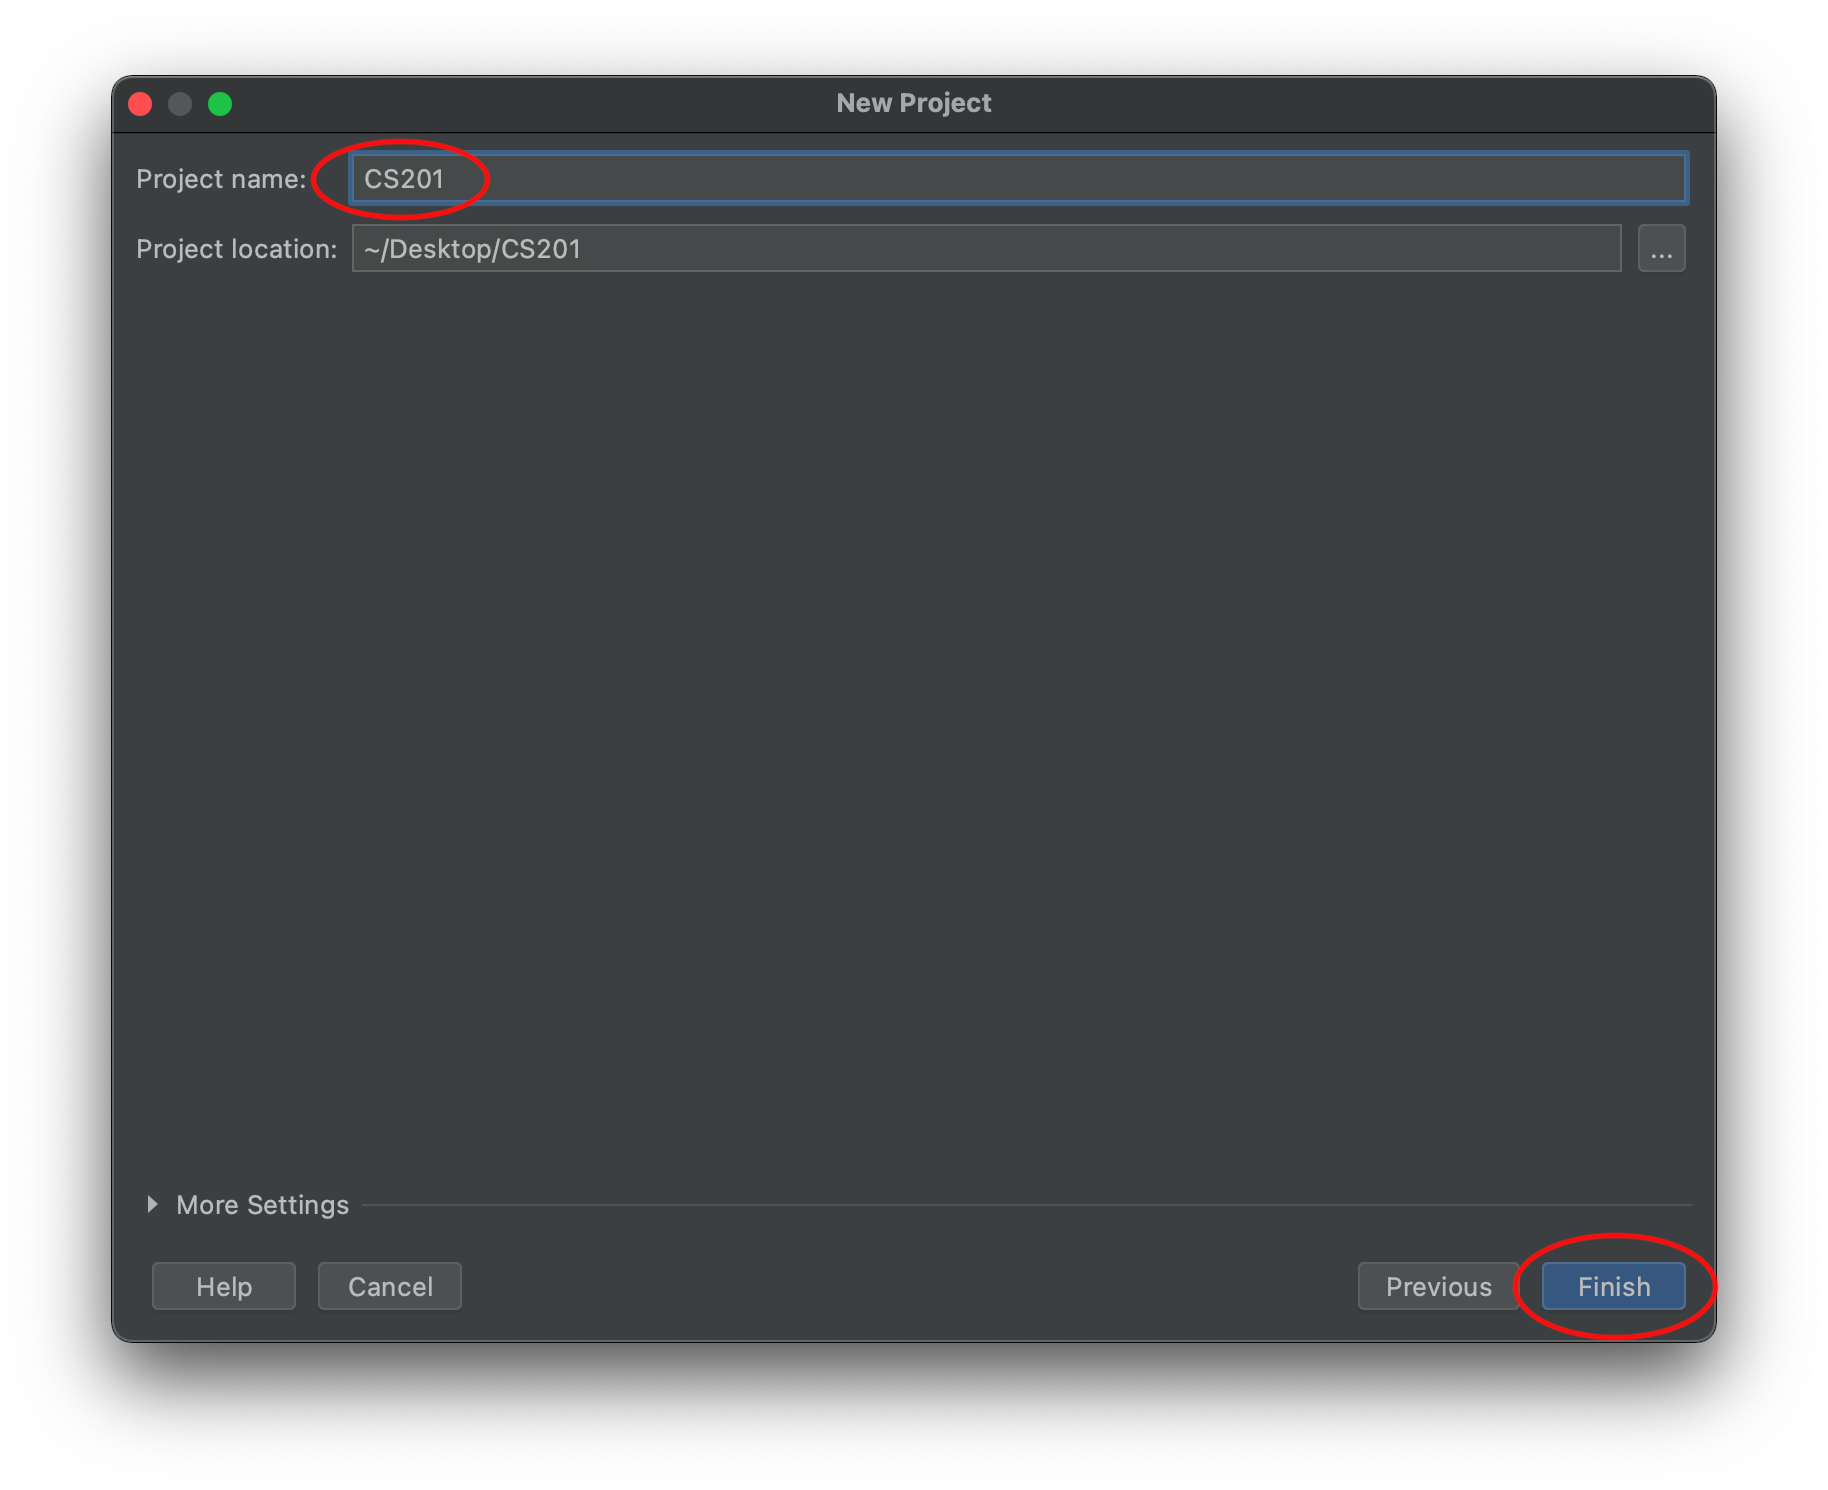
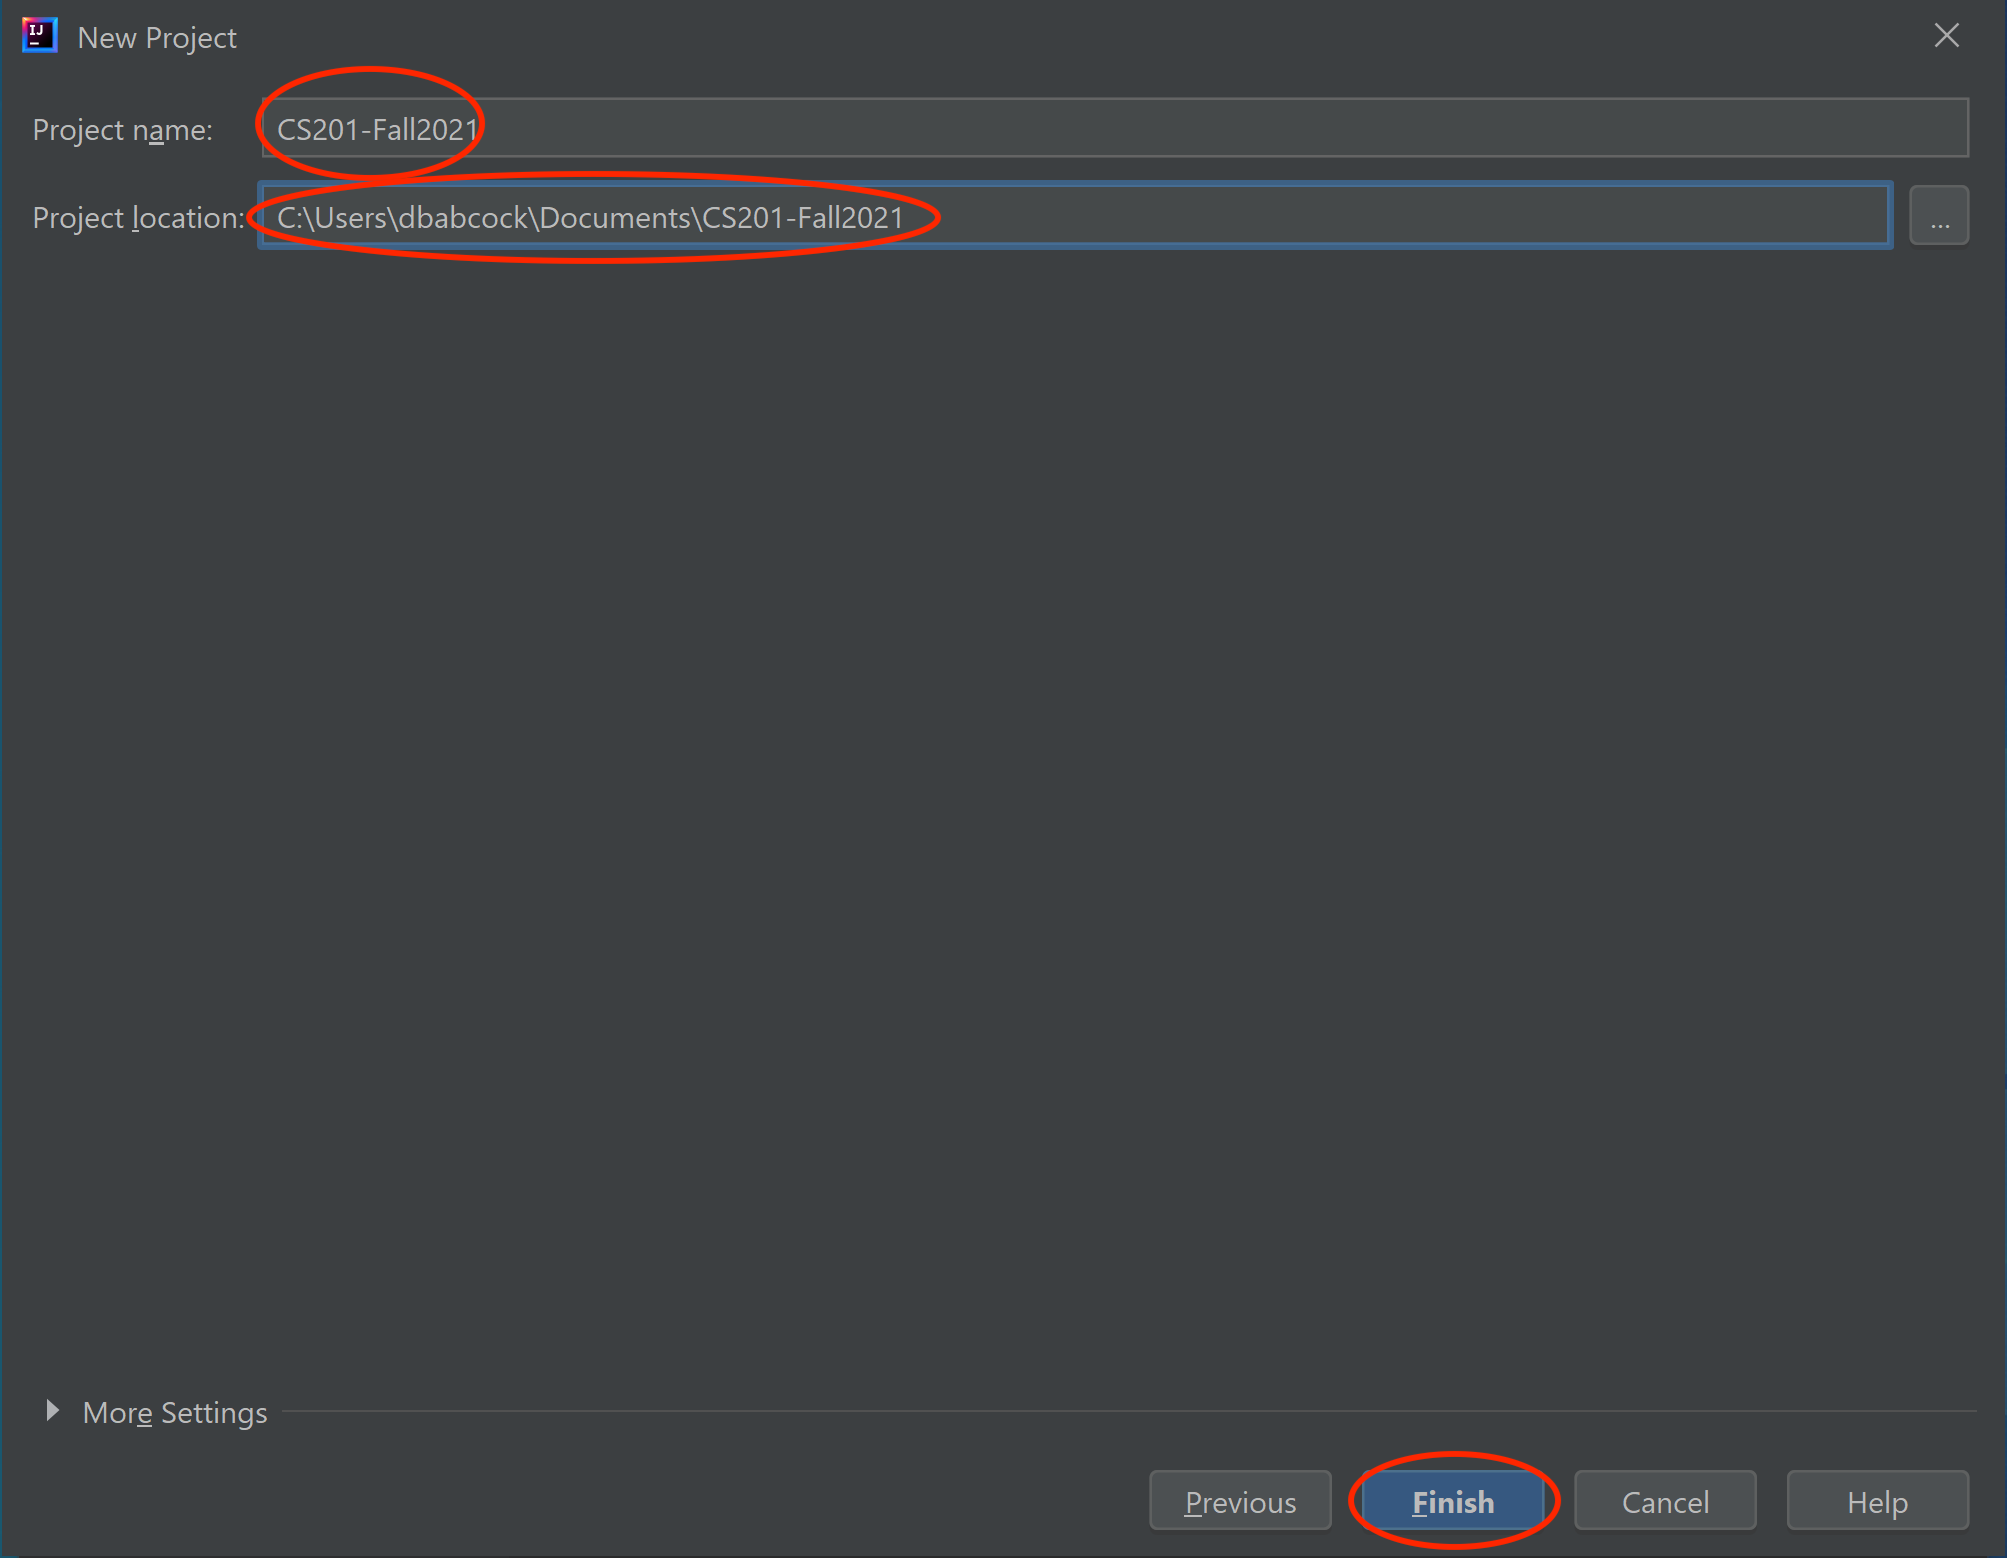
update directory
update directory

Changed region(s): [[0.0, 0.0, 1.0, 1.0], [0.0935, 0.8027, 0.1871, 0.8644]]

diff --git a/resources/index.md b/resources/index.md
@@ -22,7 +22,7 @@ Select **New Project** which will open the new project dialog
 
 > <img src="images/IntelliJNewProject.png" alt="IntelliJ New Project Window" height="500"/>
 
-Select **Empty Project** from the list on the left and click **Next**. Change the **Project name:** to **CS201** and select the **Project location:** to be the location where you want to keep all your CS201 projects, e.g. **C:/Documents** or **~/Documents/CS201**, and click **Finish**.
+Select **Empty Project** from the list on the left and click **Next**. Change the **Project name:** to **CS201-Fall2021** and select the **Project location:** to be the location where you want to keep all your CS201 projects, e.g. **C:/Documents** or **~/Documents/CS201**, and click **Finish**.
 
 > <img src="images/IntelliJDirectory.png" alt="IntelliJ Directory Window" height="500"/>
 
@@ -36,11 +36,11 @@ All labs, assignments, and exams will be submitted to the [Marmoset submission s
 
 We will be using [Cygwin](http://cygwin.com/) as our terminal program. 
 
-Make sure you have first installed IntelliJ and set up your CS201 project as described above. If you already installed Cygwin for CS101, skip to step 2.
+Make sure you have first installed IntelliJ and set up your CS201-Fall2021 project as described above. If you already installed Cygwin for CS101, skip to step 2.
 
 1. Install [Cygwin](http://cygwin.com/) and the various packages as described in the [CS101 Cygwin installation guide](https://ycpcs.github.io/cs101-spring2021/installCygwin.html).
 
-2. Open IntelliJ and the CS201 project, then select **File -> Settings** from the menubar.
+2. Open IntelliJ and the CS201-Fall2021 project, then select **File -> Settings** from the menubar.
 
     <img src="images/IntelliJSettings.png" alt="IntelliJ Select Settings Window" height="400"/>
 
@@ -48,7 +48,7 @@ Make sure you have first installed IntelliJ and set up your CS201 project as des
 
     <img src="images/IntelliJTerminal.png" alt="IntelliJ Tools Settings Window" height="500"/>
 
-4. If everything is configured correctly, when you select the **Terminal** tab in the lower left corner of IntelliJ, it should open up a terminal pane that displays a Cygwin prompt in the **CS201** project directory.
+4. If everything is configured correctly, when you select the **Terminal** tab in the lower left corner of IntelliJ, it should open up a terminal pane that displays a Cygwin prompt in the **CS201-Fall2021** project directory.
 
     <img src="images/IntelliJCygwin.png" alt="IntelliJ Cygwin Window" height="400"/>
 

diff --git a/assign/assign01.md b/assign/assign01.md
@@ -11,7 +11,7 @@ Acknowledgment: The idea for this assignment comes from [Tom Ellman](http://page
 
 ## Getting Started
 
-Download [CS201\_Assign01\_Gradle.zip](CS201_Assign01_Gradle.zip). Copy and extract the zip file into your **CS201** directory. Import it into your **CS201** IntelliJ project using
+Download [CS201\_Assign01\_Gradle.zip](CS201_Assign01_Gradle.zip). Copy and extract the zip file into your **CS201-Fall2021** directory. Import it into your **CS201-Fall2021** IntelliJ project using
 
 > **File&rarr;New&rarr;Module from Existing Sources...**
 
@@ -263,7 +263,7 @@ When you are done, submit the lab to the Marmoset server using the Terminal wind
 Navigate to the directory using
 
 <pre>
-CS201 % <b>cd CS201_Assign01_Gradle</b>
+CS201-Fall2021 % <b>cd CS201_Assign01_Gradle</b>
 CS201_Assign01_Gradle % <b>make submit_ms1</b>
 </pre>
 
@@ -290,7 +290,7 @@ Details:
 Navigate to the directory using
 
 <pre>
-CS201 % <b>cd CS201_Assign01_Gradle</b>
+CS201-Fall2021 % <b>cd CS201_Assign01_Gradle</b>
 CS201_Assign01_Gradle % <b>make submit_ms2</b>
 </pre>
 

diff --git a/labs/lab11.md b/labs/lab11.md
@@ -5,7 +5,7 @@ title: "Lab 11: Using Generic Containers and Algorithms"
 
 ## Getting Started
 
-Download [CS201\_Lab11\_Gradle.zip](CS201_Lab11_Gradle.zip). Copy and extract the zip file into your **CS201** directory. Import it into your **CS201** IntelliJ project using
+Download [CS201\_Lab11\_Gradle.zip](CS201_Lab11_Gradle.zip). Copy and extract the zip file into your **CS201-Fall2021** directory. Import it into your **CS201-Fall2021** IntelliJ project using
 
 > **File&rarr;New&rarr;Module from Existing Sources...**
 
@@ -107,7 +107,7 @@ You can implement the **Deck** class's **shuffle** method by calling **Collectio
 When you are done, submit the lab to the Marmoset server using the Terminal window in IntelliJ (click **Terminal** at the bottom left of the IDE). Navigate to the directory using
 
 <pre>
-CS201 % <b>cd CS201_Lab11_Gradle</b>
+CS201-Fall2021 % <b>cd CS201_Lab11_Gradle</b>
 CS201_Lab11_Gradle % <b>make submit</b>
 </pre>
 

diff --git a/labs/lab02.md b/labs/lab02.md
@@ -7,7 +7,7 @@ For this lab you will implement a class that represents a pocketful of change.
 
 ## Getting Started
 
-Download [CS201\_Lab02\_Gradle.zip](CS201_Lab02_Gradle.zip). Copy and extract the zip file into your **CS201** directory. Import it into your **CS201** IntelliJ project using
+Download [CS201\_Lab02\_Gradle.zip](CS201_Lab02_Gradle.zip). Copy and extract the zip file into your **CS201-Fall2021** directory. Import it into your **CS201-Fall2021** IntelliJ project using
 
 > **File&rarr;New&rarr;Module from Existing Sources...**
 
@@ -48,7 +48,7 @@ The class should provide the following **public** methods:
 When you are done, submit the lab to the Marmoset server using the Terminal window in IntelliJ (click **Terminal** at the bottom left of the IDE). Navigate to the directory using
 
 <pre>
-CS201 % <b>cd CS201_Lab02_Gradle</b>
+CS201-Fall2021 % <b>cd CS201_Lab02_Gradle</b>
 CS201_Lab02_Gradle % <b>make submit</b>
 </pre>
 

diff --git a/labs/lab08.md b/labs/lab08.md
@@ -5,7 +5,7 @@ title: "Lab 8: Inheritance and Polymorphism"
 
 ## Getting Started
 
-Download [CS201\_Lab08\_Gradle.zip](CS201_Lab08_Gradle.zip). Copy and extract the zip file into your **CS201** directory. Import it into your **CS201** IntelliJ project using
+Download [CS201\_Lab08\_Gradle.zip](CS201_Lab08_Gradle.zip). Copy and extract the zip file into your **CS201-Fall2021** directory. Import it into your **CS201-Fall2021** IntelliJ project using
 
 > **File&rarr;New&rarr;Module from Existing Sources...**
 
@@ -40,7 +40,7 @@ In **src/test/java/(default package)** right-click on the appropriate test class
 When you are done, submit the lab to the Marmoset server using the Terminal window in IntelliJ (click **Terminal** at the bottom left of the IDE). Navigate to the directory using
 
 <pre>
-CS201 % <b>cd CS201_Lab08_Gradle</b>
+CS201-Fall2021 % <b>cd CS201_Lab08_Gradle</b>
 CS201_Lab08_Gradle % <b>make submit</b>
 </pre>
 

diff --git a/labs/lab15.md b/labs/lab15.md
@@ -5,7 +5,7 @@ title: "Lab 15: Iterators, Interleaving"
 
 ## Getting Started
 
-Download [CS201\_Lab15\_Gradle.zip](CS201_Lab15_Gradle.zip). Copy and extract the zip file into your **CS201** directory. Import it into your **CS201** IntelliJ project using
+Download [CS201\_Lab15\_Gradle.zip](CS201_Lab15_Gradle.zip). Copy and extract the zip file into your **CS201-Fall2021** directory. Import it into your **CS201-Fall2021** IntelliJ project using
 
 > **File&rarr;New&rarr;Module from Existing Sources...**
 
@@ -35,7 +35,7 @@ The **AlgorithmTest** JUnit test class has unit tests for each method. Take a lo
 When you are done, submit the lab to the Marmoset server using the Terminal window in IntelliJ (click **Terminal** at the bottom left of the IDE). Navigate to the directory using
 
 <pre>
-CS201 % <b>cd CS201_Lab15_Gradle</b>
+CS201-Fall2021 % <b>cd CS201_Lab15_Gradle</b>
 CS201_Lab15_Gradle % <b>make submit</b>
 </pre>
 

diff --git a/labs/lab13.md b/labs/lab13.md
@@ -5,7 +5,7 @@ title: "Lab 13: Benchmarking ArrayList"
 
 ## Getting Started
 
-Download [CS201\_Lab13\_Gradle.zip](CS201_Lab13_Gradle.zip). Copy and extract the zip file into your **CS201** directory. Import it into your **CS201** IntelliJ project using
+Download [CS201\_Lab13\_Gradle.zip](CS201_Lab13_Gradle.zip). Copy and extract the zip file into your **CS201-Fall2021** directory. Import it into your **CS201-Fall2021** IntelliJ project using
 
 > **File&rarr;New&rarr;Module from Existing Sources...**
 
@@ -99,7 +99,7 @@ Copy your Excel file into the Eclipse project. (Put it in the subdirectory of yo
 When you are done, submit the lab to the Marmoset server using the Terminal window in IntelliJ (click **Terminal** at the bottom left of the IDE). Navigate to the directory using
 
 <pre>
-CS201 % <b>cd CS201_Lab13_Gradle</b>
+CS201-Fall2021 % <b>cd CS201_Lab13_Gradle</b>
 CS201_Lab13_Gradle % <b>make submit</b>
 </pre>
 

diff --git a/labs/lab23.md b/labs/lab23.md
@@ -5,7 +5,7 @@ title: "Lab 23: Binomial Coefficient"
 
 ## Getting Started
 
-Download [CS201\_Lab23\_Gradle.zip](CS201_Lab23_Gradle.zip). Copy and extract the zip file into your **CS201** directory. Import it into your **CS201** IntelliJ project using
+Download [CS201\_Lab23\_Gradle.zip](CS201_Lab23_Gradle.zip). Copy and extract the zip file into your **CS201-Fall2021** directory. Import it into your **CS201-Fall2021** IntelliJ project using
 
 > **File&rarr;New&rarr;Module from Existing Sources...**
 
@@ -44,7 +44,7 @@ The test driver solves C(n,k) for all values of k 0..n, for n=25, and measures t
 When you are done, submit the lab to the Marmoset server using the Terminal window in IntelliJ (click **Terminal** at the bottom left of the IDE). Navigate to the directory using
 
 <pre>
-CS201 % <b>cd CS201_Lab23_Gradle</b>
+CS201-Fall2021 % <b>cd CS201_Lab23_Gradle</b>
 CS201_Lab23_Gradle % <b>make submit</b>
 </pre>
 

diff --git a/labs/lab05.md b/labs/lab05.md
@@ -5,7 +5,7 @@ title: "Lab 5: Drag and Drop GUI"
 
 ## Getting Started
 
-Download [CS201\_Lab05\_Gradle.zip](CS201_Lab05_Gradle.zip). Copy and extract the zip file into your **CS201** directory. Import it into your **CS201** IntelliJ project using
+Download [CS201\_Lab05\_Gradle.zip](CS201_Lab05_Gradle.zip). Copy and extract the zip file into your **CS201-Fall2021** directory. Import it into your **CS201-Fall2021** IntelliJ project using
 
 > **File&rarr;New&rarr;Module from Existing Sources...**
 
@@ -60,7 +60,7 @@ Modify the program so that it allows the user to drag an outline of a circle aro
 When you are done, submit the lab to the Marmoset server using the Terminal window in IntelliJ (click **Terminal** at the bottom left of the IDE). Navigate to the directory using
 
 <pre>
-CS201 % <b>cd CS201_Lab05_Gradle</b>
+CS201-Fall2021 % <b>cd CS201_Lab05_Gradle</b>
 CS201_Lab05_Gradle % <b>make submit</b>
 </pre>
 

diff --git a/labs/lab17.md b/labs/lab17.md
@@ -5,7 +5,7 @@ title: "Lab 17: List Reversal"
 
 ## Getting Started
 
-Download [CS201\_Lab17\_Gradle.zip](CS201_Lab17_Gradle.zip). Copy and extract the zip file into your **CS201** directory. Import it into your **CS201** IntelliJ project using
+Download [CS201\_Lab17\_Gradle.zip](CS201_Lab17_Gradle.zip). Copy and extract the zip file into your **CS201-Fall2021** directory. Import it into your **CS201-Fall2021** IntelliJ project using
 
 > **File&rarr;New&rarr;Module from Existing Sources...**
 
@@ -69,7 +69,7 @@ Copy your Excel file into the Eclipse project. (Put it in the subdirectory of yo
 When you are done, submit the lab to the Marmoset server using the Terminal window in IntelliJ (click **Terminal** at the bottom left of the IDE). Navigate to the directory using
 
 <pre>
-CS201 % <b>cd CS201_Lab17_Gradle</b>
+CS201-Fall2021 % <b>cd CS201_Lab17_Gradle</b>
 CS201_Lab17_Gradle % <b>make submit</b>
 </pre>
 

diff --git a/labs/lab06.md b/labs/lab06.md
@@ -5,7 +5,7 @@ title: "Lab 6: Text File I/O"
 
 ## Getting Started
 
-Download [CS201\_Lab06\_Gradle.zip](CS201_Lab06_Gradle.zip). Copy and extract the zip file into your **CS201** directory. Import it into your **CS201** IntelliJ project using
+Download [CS201\_Lab06\_Gradle.zip](CS201_Lab06_Gradle.zip). Copy and extract the zip file into your **CS201-Fall2021** directory. Import it into your **CS201-Fall2021** IntelliJ project using
 
 > **File&rarr;New&rarr;Module from Existing Sources...**
 
@@ -59,7 +59,7 @@ Once the file is created, it should appear in the **CS201\_Lab06\_Gradle** direc
 When you are done, submit the lab to the Marmoset server using the Terminal window in IntelliJ (click **Terminal** at the bottom left of the IDE). Navigate to the directory using
 
 <pre>
-CS201 % <b>cd CS201_Lab06_Gradle</b>
+CS201-Fall2021 % <b>cd CS201_Lab06_Gradle</b>
 CS201_Lab06_Gradle % <b>make submit</b>
 </pre>
 

diff --git a/labs/lab03.md b/labs/lab03.md
@@ -5,7 +5,7 @@ title: "Lab 3: Testing Overloaded Constructors"
 
 ## Getting Started
 
-Download [CS201\_Lab03\_Gradle.zip](CS201_Lab03_Gradle.zip). Copy and extract the zip file into your **CS201** directory. Import it into your **CS201** IntelliJ project using
+Download [CS201\_Lab03\_Gradle.zip](CS201_Lab03_Gradle.zip). Copy and extract the zip file into your **CS201-Fall2021** directory. Import it into your **CS201-Fall2021** IntelliJ project using
 
 > **File&rarr;New&rarr;Module from Existing Sources...**
 
@@ -52,7 +52,7 @@ Make the following modifications to the **CoinsTest** class:
 When you are done, submit the lab to the Marmoset server using the Terminal window in IntelliJ (click **Terminal** at the bottom left of the IDE). Navigate to the directory using
 
 <pre>
-CS201 % <b>cd CS201_Lab03_Gradle</b>
+CS201-Fall2021 % <b>cd CS201_Lab03_Gradle</b>
 CS201_Lab03_Gradle % <b>make submit</b>
 </pre>
 
